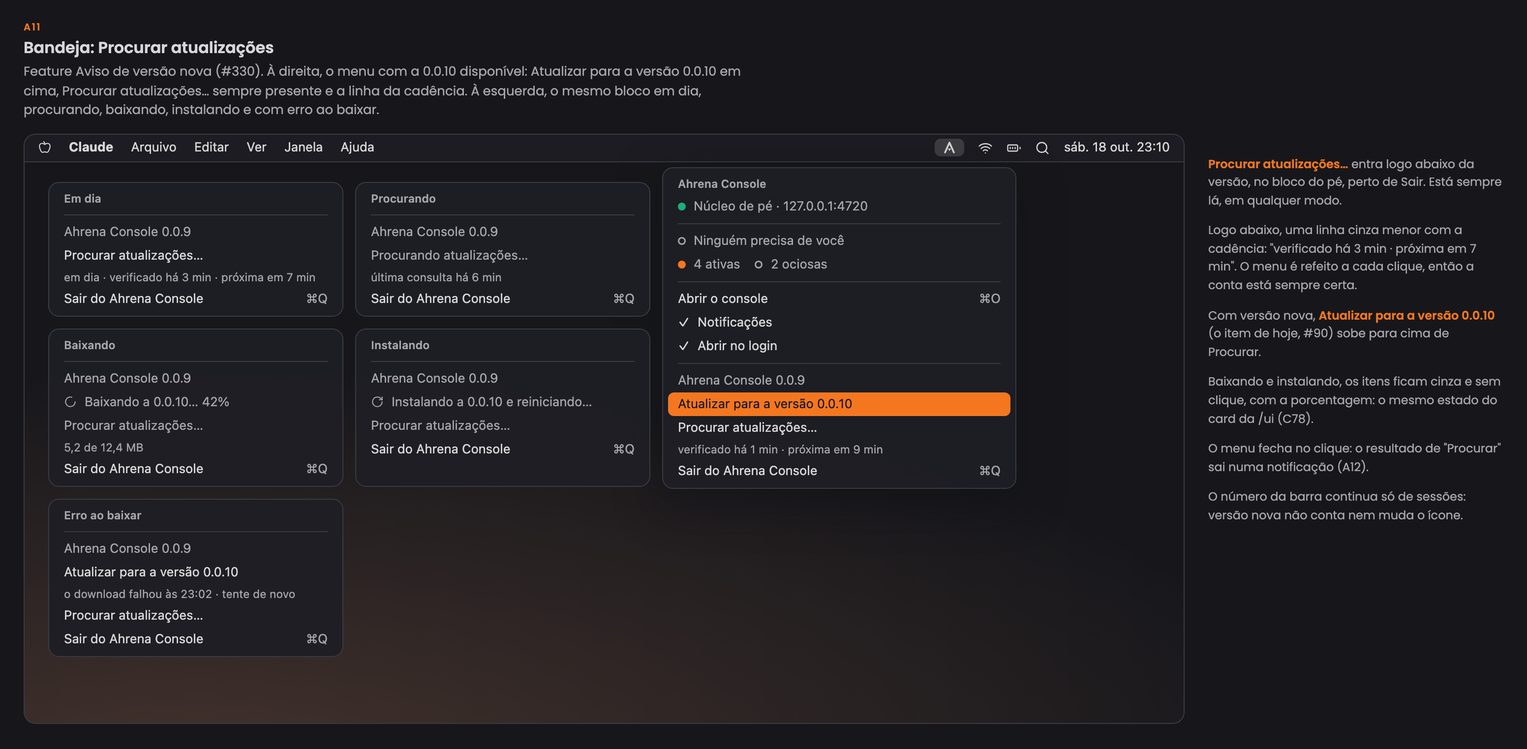
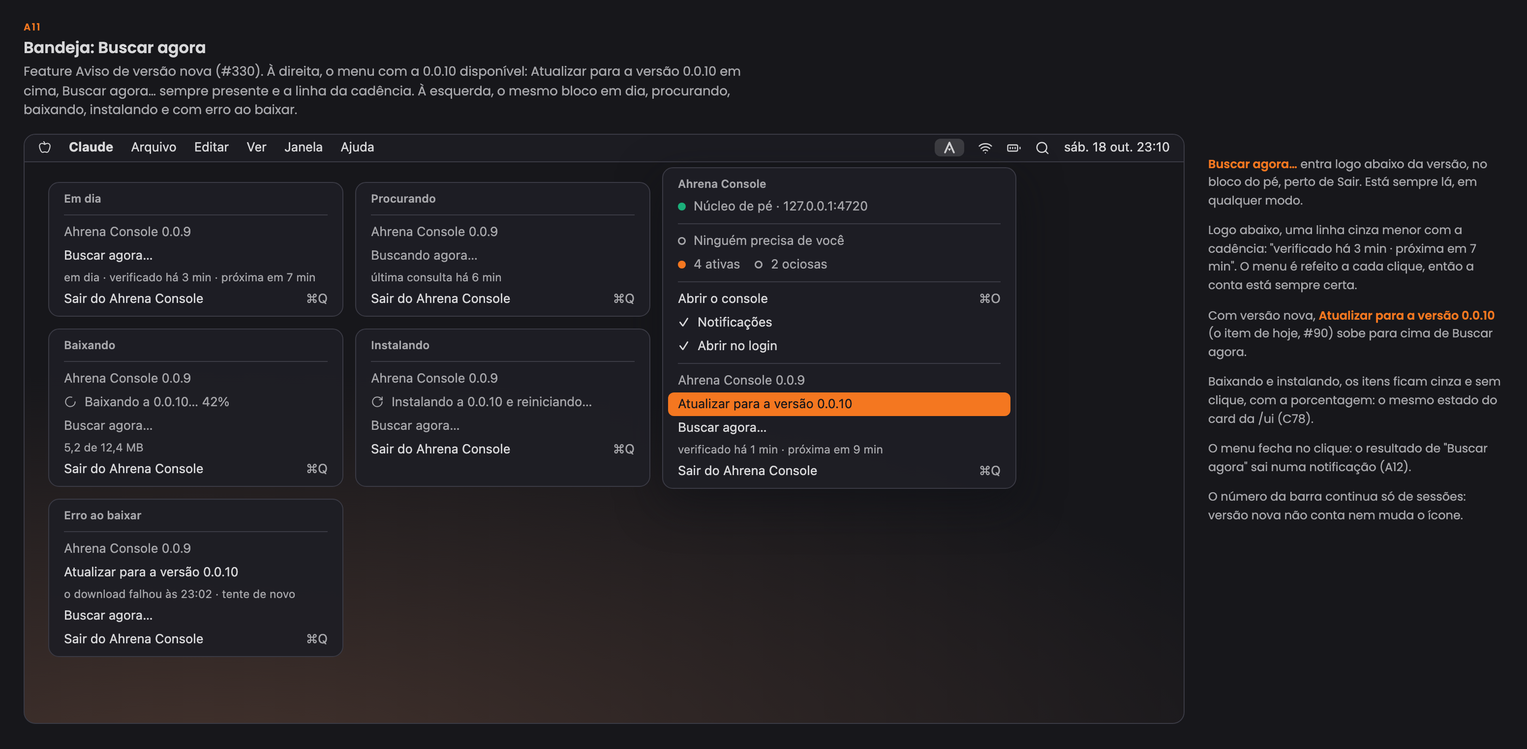
docs(330): read-only notice in the claude.ai artifact, "Buscar agora" wording, card place and color as open decisions

diff --git a/docs/wireframes/index.html b/docs/wireframes/index.html
@@ -3854,6 +3854,7 @@ const UP_BANNER = {
   error: { cls: 'up-err', ic: 'x-circle', t: 'Não deu para baixar a 0.0.10', s: 'A conexão caiu no meio do download (5,2 de 12,4 MB). Você continua na 0.0.9.', act: upBtn('Depois') + upBtn('Tentar de novo', 'refresh-cw', 'cheio') },
   done: { cls: 'up-ok', ic: 'check-circle-2', t: 'Atualizado para a 0.0.10', s: `O que mudou: ${UP_NOTES.join(' · ')}`, act: upBtn('Fechar', 'x', '') },
   browser: { ic: 'download', t: 'Atualização disponível: versão 0.0.10', s: 'Para atualizar, use o app Ahrena Console: na bandeja, Atualizar para a versão 0.0.10.', act: upBtn('Depois') },
+  artifact: { ic: 'download', t: 'Atualização disponível: versão 0.0.10', s: 'Só para ler aqui. Para atualizar ou adiar: No app do Ahrena Console, na bandeja.', act: upBtn('Depois', '', 'contorno tm-rc-off') },
 }
 const upBanner = k => {
   const b = UP_BANNER[k]
@@ -3863,9 +3864,9 @@ const upBanner = k => {
 // The version panel, opened from the sidebar foot's version pill (C79).
 const UP_DEV = '<span class="badge b-idle"><span class="p"></span>modo dev</span>'
 const UP_NOTE_LIST = `<ul class="up-notes">${UP_NOTES.map(n => `<li>${n}</li>`).join('')}</ul>`
-const UP_SEARCH = upBtn('Procurar atualizações', 'refresh-cw')
+const UP_SEARCH = upBtn('Buscar agora', 'refresh-cw')
 const UP_PANEL = {
-  checking: { ic: 'loader-2', c: 'var(--muted)', t: 'Procurando atualizações…', s: 'consultando o latest.json do canal app-updates', act: upBtn('Procurar atualizações', 'refresh-cw', 'contorno tm-rc-off'), cad: 'última consulta há 6 min' },
+  checking: { ic: 'loader-2', c: 'var(--muted)', t: 'Buscando agora…', s: 'consultando o latest.json do canal app-updates', act: upBtn('Buscar agora', 'refresh-cw', 'contorno tm-rc-off'), cad: 'última consulta há 6 min' },
   upToDate: { ic: 'check-circle-2', c: 'var(--status-completed-text)', t: 'Você está na versão mais nova', s: '0.0.9 · conferido agora', act: UP_SEARCH, cad: 'verificado agora · próxima em 10 min' },
   stable: { ver: 'v1.2.0', mode: '<span class="badge b-completed"><span class="p"></span>estável</span>', ic: 'check-circle-2', c: 'var(--status-completed-text)', t: 'Você está na versão mais nova', s: '1.2.0 · conferido há 2 h', act: UP_SEARCH, cad: 'verificado há 2 h · próxima em 4 h', rule: 'versão 1.0 em diante, sem a marca dev: a cada 6 h' },
   available: { ic: 'download', c: 'var(--accent-text)', t: 'Versão 0.0.10 disponível', s: 'publicada há 12 min · 12,4 MB', extra: UP_NOTE_LIST, act: upBtn('Atualizar', 'download', 'cheio') + upBtn('Depois'), cad: 'verificado há 3 min · próxima em 7 min' },
@@ -3873,7 +3874,8 @@ const UP_PANEL = {
   offline: { ic: 'wifi-off', c: 'var(--status-error-text)', t: 'Sem rede', s: 'Não deu para consultar o canal agora. Você continua na 0.0.9.', act: upBtn('Tentar de novo', 'refresh-cw'), cad: 'última consulta boa há 3 h · próxima em 10 min' },
   channelDown: { ic: 'cloud-off', c: 'var(--status-error-text)', t: 'O canal de atualizações não respondeu', s: 'O latest.json do app-updates voltou com erro 503. Nada mudou aqui.', act: upBtn('Tentar de novo', 'refresh-cw'), cad: 'conferido há 1 min · próxima em 10 min' },
   browser: { ic: 'download', c: 'var(--accent-text)', t: 'Versão 0.0.10 disponível', s: 'Atualizar é só no app: na bandeja, Atualizar para a versão 0.0.10. Daqui dá para procurar e adiar.', extra: UP_NOTE_LIST, act: UP_SEARCH + upBtn('Depois'), cad: 'verificado pelo app há 3 min · próxima em 7 min' },
-  noApp: { mode: '', ic: 'app-window', c: 'var(--muted)', t: 'O app não está aberto nesta máquina', s: 'Quem procura versões novas é o app Ahrena Console. Sem ele, a /ui não sabe se há versão nova e não mostra o aviso.', act: upBtn('Procurar atualizações', 'refresh-cw', 'contorno tm-rc-off'), cad: 'o núcleo veio da extensão do Claude Desktop', rule: 'abra o app para voltar a receber o aviso' },
+  artifact: { ic: 'download', c: 'var(--accent-text)', t: 'Versão 0.0.10 disponível', s: 'Só para ler: o artefato fala com o console pela extensão (MCP), que não escreve. Nada daqui atualiza, adia ou consulta.', extra: UP_NOTE_LIST, act: upBtn('Buscar agora', 'refresh-cw', 'contorno tm-rc-off') + upBtn('Depois', '', 'contorno tm-rc-off'), cad: 'verificado pelo app há 3 min · próxima em 7 min', rule: 'No app do Ahrena Console' },
+  noApp: { mode: '', ic: 'app-window', c: 'var(--muted)', t: 'O app não está aberto nesta máquina', s: 'Quem procura versões novas é o app Ahrena Console. Sem ele, a /ui não sabe se há versão nova e não mostra o aviso.', act: upBtn('Buscar agora', 'refresh-cw', 'contorno tm-rc-off'), cad: 'o núcleo veio da extensão do Claude Desktop', rule: 'abra o app para voltar a receber o aviso' },
 }
 const upPanel = k => {
   const p = UP_PANEL[k]
@@ -3910,14 +3912,14 @@ const updateBannerStates = () => `<div class="tm-rc">
     'Adiar vale para todas as janelas e para a bandeja: quem guarda é o núcleo. O ponto laranja do pé da barra lateral continua, para você achar a versão quando quiser.'])}
 </div>`
 
-// C79 · "Procurar atualizações" on demand
+// C79 · "Buscar agora" on demand
 const UP_STATES = [['1 · procurando', 'checking'], ['2 · em dia, modo dev', 'upToDate'], ['3 · em dia, estável', 'stable'], ['4 · disponível', 'available'], ['5 · baixando', 'downloading'], ['6 · erro: sem rede', 'offline'], ['7 · erro: canal fora do ar', 'channelDown']]
 const updateCheckScreens = () => `<div class="tm-rc">
   ${rcRow([['1100 px · o painel aberto pelo pé da barra lateral', upFrame(1100, 'dashboard', telaDashboard(5), 'openOk', upPanel('upToDate'))],
     ['1440 px', upFrame(1440, 'dashboard', telaDashboard(5), 'openOk', upPanel('upToDate'))]], [
     '<b>Onde (a aprovar): a versão no pé da barra lateral</b> vira um botão que abre este painel. A versão já mora ali, aparece em todas as telas e está a um clique de qualquer lugar; nenhum item novo entra na barra.',
     'A alternativa da issue, um card "Versão do app" em Controle, pede uma tela nova (Controle não tem página própria) ou um card dentro de Ferramentas ou Conexões, que tratam de outra coisa.',
-    '<b>Procurar atualizações</b> está sempre disponível, em qualquer modo, e consulta na hora. Esc ou um clique fora fecha.',
+    '<b>Buscar agora</b> está sempre disponível, em qualquer modo, e consulta na hora. Esc ou um clique fora fecha.',
     '<b>A cadência aparece no pé do painel:</b> "verificado há 3 min · próxima em 7 min", e a regra do modo.'])}
   <div class="up-states">${UP_STATES.map(([l, k]) => `<div class="width-col"><div class="rotulo">${l}</div>${upPanel(k)}</div>`).join('')}
     ${rcNote([
@@ -3932,12 +3934,13 @@ const updateOutsideScreens = () => `<div class="tm-rc">
   ${rcRow([['1 · /ui num navegador comum, com o app aberto · 1100 px', upBrowser('127.0.0.1:4720/ui/dashboard', upFrame(1100, 'dashboard', upBanner('browser') + telaDashboard(5)))],
     ['2 · o painel da versão no navegador · 1100 px', upBrowser('127.0.0.1:4720/ui/dashboard', upFrame(1100, 'dashboard', telaDashboard(5), 'open', upPanel('browser')))]], [
     '<b>Fora do app (a aprovar):</b> a /ui num navegador comum mostra o mesmo aviso, mas <b>sem Atualizar</b>: o texto diz que é no app, pela bandeja. Atualizar reinicia o app, e você não está olhando para ele.',
-    '<b>Depois</b> e <b>Procurar atualizações</b> funcionam daqui: o núcleo repassa o pedido ao app, que consulta e responde. É o mesmo GET de um arquivo pequeno.',
+    '<b>Depois</b> e <b>Buscar agora</b> funcionam daqui: o núcleo repassa o pedido ao app, que consulta e responde, e guarda o estado do Depois (PUT /api/app-update/state).',
     'Como a /ui sabe onde está: o app marca a própria janela (um script de início do Tauri); sem a marca, é navegador.'])}
-  ${rcRow([['3 · sem o app nesta máquina · 1100 px', upBrowser('127.0.0.1:4720/ui/dashboard', upFrame(1100, 'dashboard', telaDashboard(5), 'openOk', upPanel('noApp')))]], [
+  ${rcRow([['3 · sem o app nesta máquina · 1100 px', upBrowser('127.0.0.1:4720/ui/dashboard', upFrame(1100, 'dashboard', telaDashboard(5), 'openOk', upPanel('noApp')))],
+    ['4 · no artefato do claude.ai, só leitura · 1100 px', upFrame(1100, 'dashboard', upBanner('artifact') + telaDashboard(5))]], [
     '<b>Sem o app</b> (núcleo subido pela extensão do Claude Desktop, ou um app anterior à #330): ninguém consulta o canal, então não há card nem ponto. O painel da versão explica e o botão fica desligado.',
     '<b>No painel do mod</b> (a aprovar): nada. O painel é da sessão e cabe pouco; a notificação e a bandeja já avisam, e o console tem o card.',
-    'No artefato publicado no claude.ai, o mesmo do navegador: ele lê o núcleo pelo <code>host:</code>.'])}
+    '<b>No artefato publicado no claude.ai (a aprovar):</b> só leitura. Ele fala com o console pela extensão, o MCP, que só lê (decisão 0003). O aviso aparece (4), mas Depois e Buscar agora ficam desligados, com o motivo: "No app do Ahrena Console". O painel da versão mostra o mesmo.'])}
 </div>`
 
 // A11 and A12 · the tray and the notification
@@ -3945,12 +3948,12 @@ const upMenuTop = `${trayHead}${mi('<span class="ponto" style="box-shadow:inset 
   ${mi('Abrir o console', '', '⌘O')}${mi('<span class="ck">✓</span>Notificações')}${mi('<span class="ck">✓</span>Abrir no login')}${msep}`
 const upSmall = t => mi(`<span class="mt">${t}</span>`, 'off up-small')
 const UP_TRAY = {
-  upToDate: ['Em dia', mi('Ahrena Console 0.0.9', 'off') + mi('Procurar atualizações…') + upSmall('em dia · verificado há 3 min · próxima em 7 min')],
-  checking: ['Procurando', mi('Ahrena Console 0.0.9', 'off') + mi('Procurando atualizações…', 'off') + upSmall('última consulta há 6 min')],
-  available: ['Disponível', mi('Ahrena Console 0.0.9', 'off') + mi('Atualizar para a versão 0.0.10', 'foco') + mi('Procurar atualizações…') + upSmall('verificado há 1 min · próxima em 9 min')],
-  downloading: ['Baixando', mi('Ahrena Console 0.0.9', 'off') + mi(`${ic('loader-2')}Baixando a 0.0.10… 42%`, 'off') + mi('Procurar atualizações…', 'off') + upSmall('5,2 de 12,4 MB')],
-  installing: ['Instalando', mi('Ahrena Console 0.0.9', 'off') + mi(`${ic('rotate-cw')}Instalando a 0.0.10 e reiniciando…`, 'off') + mi('Procurar atualizações…', 'off')],
-  error: ['Erro ao baixar', mi('Ahrena Console 0.0.9', 'off') + mi('Atualizar para a versão 0.0.10') + upSmall('o download falhou às 23:02 · tente de novo') + mi('Procurar atualizações…')],
+  upToDate: ['Em dia', mi('Ahrena Console 0.0.9', 'off') + mi('Buscar agora…') + upSmall('em dia · verificado há 3 min · próxima em 7 min')],
+  checking: ['Procurando', mi('Ahrena Console 0.0.9', 'off') + mi('Buscando agora…', 'off') + upSmall('última consulta há 6 min')],
+  available: ['Disponível', mi('Ahrena Console 0.0.9', 'off') + mi('Atualizar para a versão 0.0.10', 'foco') + mi('Buscar agora…') + upSmall('verificado há 1 min · próxima em 9 min')],
+  downloading: ['Baixando', mi('Ahrena Console 0.0.9', 'off') + mi(`${ic('loader-2')}Baixando a 0.0.10… 42%`, 'off') + mi('Buscar agora…', 'off') + upSmall('5,2 de 12,4 MB')],
+  installing: ['Instalando', mi('Ahrena Console 0.0.9', 'off') + mi(`${ic('rotate-cw')}Instalando a 0.0.10 e reiniciando…`, 'off') + mi('Buscar agora…', 'off')],
+  error: ['Erro ao baixar', mi('Ahrena Console 0.0.9', 'off') + mi('Atualizar para a versão 0.0.10') + upSmall('o download falhou às 23:02 · tente de novo') + mi('Buscar agora…')],
 }
 const upTrayFoot = k => UP_TRAY[k][1] + mi('Sair do Ahrena Console', '', '⌘Q')
 const APP_UP = {
@@ -3958,11 +3961,11 @@ const APP_UP = {
     <div class="menu" style="right:170px;width:360px">${upMenuTop}${upTrayFoot('available')}</div>
     <div class="up-frag">${['upToDate', 'checking', 'downloading', 'installing', 'error'].map(k => `<div class="menu">${mi(UP_TRAY[k][0], 'cab')}${msep}${upTrayFoot(k)}</div>`).join('')}</div></div>
     ${rcNote([
-      '<b>Procurar atualizações…</b> entra logo abaixo da versão, no bloco do pé, perto de Sair. Está sempre lá, em qualquer modo.',
+      '<b>Buscar agora…</b> entra logo abaixo da versão, no bloco do pé, perto de Sair. Está sempre lá, em qualquer modo.',
       'Logo abaixo, uma linha cinza menor com a cadência: "verificado há 3 min · próxima em 7 min". O menu é refeito a cada clique, então a conta está sempre certa.',
-      'Com versão nova, <b>Atualizar para a versão 0.0.10</b> (o item de hoje, #90) sobe para cima de Procurar.',
+      'Com versão nova, <b>Atualizar para a versão 0.0.10</b> (o item de hoje, #90) sobe para cima de Buscar agora.',
       'Baixando e instalando, os itens ficam cinza e sem clique, com a porcentagem: o mesmo estado do card da /ui (C78).',
-      'O menu fecha no clique: o resultado de "Procurar" sai numa notificação (A12).',
+      'O menu fecha no clique: o resultado de "Buscar agora" sai numa notificação (A12).',
       'O número da barra continua só de sessões: versão nova não conta nem muda o ícone.'])}</div>`,
   notif: () => `<div class="tm-rc-row"><div class="mac">${mbar(0, false)}
     <div class="notif" style="top:44px"><img src="${LOGO}" alt=""><div><div class="app">AHRENA CONSOLE<span>agora · sem som</span></div><div class="tit">Ahrena Console 0.0.10 disponível</div><div>${UP_LINE}</div></div><div class="acoes"><span>Atualizar</span><span>Depois</span></div></div>
@@ -3970,7 +3973,7 @@ const APP_UP = {
     <div class="notif" style="top:298px"><img src="${LOGO}" alt=""><div><div class="app">AHRENA CONSOLE<span>23:02 · sem som</span></div><div class="tit">Não deu para atualizar para a 0.0.10</div><div>A conexão caiu no download. Você continua na 0.0.9.</div></div><div class="acoes"><span>Tentar de novo</span><span>Abrir</span></div></div>
     <div class="anota" style="left:28px;top:56px;width:500px"><b>1. Versão nova:</b> "Ahrena Console 0.0.10 disponível", com a primeira linha das notas. <b>Uma vez por versão</b> e <b>sem som</b>: não é sessão travada (#245).<br><br>
       <b>Atualizar</b> faz o mesmo que o card e o item da bandeja. <b>Depois</b> adia como o Depois do card (C78). <b>Clicar no corpo</b> abre a janela do app na tela em que ela estava, com o card no topo.<br><br>
-      <b>2. Em dia (a aprovar):</b> só depois de "Procurar atualizações…" na bandeja, que fecha o menu ao clicar. A consulta automática nunca notifica "em dia".<br><br>
+      <b>2. Em dia (a aprovar):</b> só depois de "Buscar agora…" na bandeja, que fecha o menu ao clicar. A consulta automática nunca notifica "em dia".<br><br>
       <b>3. Falha (a aprovar):</b> só quando a atualização começou pela bandeja ou pela notificação e a janela está fechada. Com a janela aberta, o card vermelho já diz.<br><br>
       O item <b>Notificações</b> da bandeja desliga estas também; o card na /ui continua.</div></div>
     ${rcNote(['Ações nativas do macOS, como as da A10.', 'Na Central de Notificações, a de versão nova some sozinha quando a versão é instalada.'])}</div>`,
@@ -4054,8 +4057,8 @@ const TELAS = [
   { id: 'app-clouds-connection', cod: 'A9', nome: 'Bandeja: Nuvens e a conexão da Workstation', sub: 'Features Contas de nuvem (#277) e A conexão da máquina remota (#278), decisão 0013. À esquerda, o túnel no ar e o bloco Nuvens com a sessão que expira em 14 min e Entrar. À direita, de manhã: o túnel fora por SSO expirado, com Entrar na AWS e subir o túnel, e o item cinza enquanto roda.', html: () => `<div class="fila"><div class="mac">${APP_CL.up()}</div><div class="mac">${APP_CL.down()}</div></div>`,
     n: N(['Nada.'], ['A bandeja roda o mesmo que a janela, pela mesma rota local (sem Origin, Host em loopback, como a A8).', 'O número da barra continua só de sessões: nuvem e túnel não contam.']) },
   { id: 'app-clouds-notifications', cod: 'A10', nome: 'Notificações da nuvem e da conexão', sub: 'A sessão que vai expirar, a queda por SSO expirado e a queda por porta ocupada: o motivo no título e a ação que resolve. Todas sem som.', html: () => `<div class="fila"><div class="mac">${APP_CL.notifs()}</div></div>`, n: '' },
-  { id: 'app-update-tray', cod: 'A11', nome: 'Bandeja: Procurar atualizações', sub: 'Feature Aviso de versão nova (#330). À direita, o menu com a 0.0.10 disponível: Atualizar para a versão 0.0.10 em cima, Procurar atualizações… sempre presente e a linha da cadência. À esquerda, o mesmo bloco em dia, procurando, baixando, instalando e com erro ao baixar.', html: () => `<div class="fila">${APP_UP.tray()}</div>`,
-    n: N(['Nada: o CCAM não tem updater (decisão 0005).'], ['O item "Atualizar para a versão X" é o de hoje (#90); a #330 acrescenta Procurar, a cadência e os estados.', 'A consulta automática passa de 6 h fixas para a regra do modo: 10 min no modo dev, 6 h na estável (a aprovar).']) },
+  { id: 'app-update-tray', cod: 'A11', nome: 'Bandeja: Buscar agora', sub: 'Feature Aviso de versão nova (#330). À direita, o menu com a 0.0.10 disponível: Atualizar para a versão 0.0.10 em cima, Buscar agora… sempre presente e a linha da cadência. À esquerda, o mesmo bloco em dia, procurando, baixando, instalando e com erro ao baixar.', html: () => `<div class="fila">${APP_UP.tray()}</div>`,
+    n: N(['Nada: o CCAM não tem updater (decisão 0005).'], ['O item "Atualizar para a versão X" é o de hoje (#90); a #330 acrescenta Buscar agora, a cadência e os estados.', 'A consulta automática passa de 6 h fixas para a regra do modo: 10 min no modo dev, 6 h na estável (a aprovar).']) },
   { id: 'app-update-notification', cod: 'A12', nome: 'Notificação de versão nova', sub: 'Ahrena Console 0.0.10 disponível, com Atualizar e Depois, uma vez por versão e sem som. Embaixo, o "em dia" de uma busca pedida pela bandeja e a falha de uma atualização começada fora da janela.', html: () => `<div class="fila">${APP_UP.notif()}</div>`,
     n: N(['Nada.'], ['Sem som, como as da máquina e da nuvem (A10): versão nova não trava sessão.', 'Uma vez por versão: Depois, fechar ou ignorar não a trazem de volta para a mesma versão.']) },
   { cap: 'console', titulo: 'Console (artefato)', desc: 'O console completo, que é também o que a janela do app mostra: todas as telas do CCAM que fazem sentido aqui, na mesma ordem da barra lateral dele. Moldura, cabeçalho, cards, tabelas e gráficos seguem o CCAM tela a tela.' },
@@ -4218,9 +4221,9 @@ const TELAS = [
     n: N(['Nada: o CCAM não tem updater.'], ['Hoje (#90) a versão nova só aparece no menu da bandeja; a #330 a traz para a janela.', 'Cor da marca, não o amarelo de "precisa de você".']) },
   { id: 'console-update-banner-states', cod: 'C78', nome: 'Os estados do aviso', sub: 'Baixando (a barra, sem Atualizar), instalando e reiniciando, erro ao baixar (Tentar de novo), atualizado, sem notas, e depois de Depois: o card some até a próxima versão ou por 24 h (a aprovar). Em 1100, o topo da tela.', html: () => updateBannerStates(),
     n: N(['Nada.'], ['Um estado só para a janela, o navegador e a bandeja: quem guarda é o núcleo, quem baixa é o app.']) },
-  { id: 'console-update-check', cod: 'C79', nome: 'Procurar atualizações na /ui', sub: 'A versão no pé da barra lateral abre o painel da versão (proposta, a aprovar): procurando, em dia ("Você está na versão mais nova · 0.0.9 · conferido agora"), disponível, baixando e os dois erros, com a cadência no pé: a cada 10 min no modo dev, a cada 6 h na estável (a aprovar). Em 1100 e 1440.', html: () => updateCheckScreens(),
+  { id: 'console-update-check', cod: 'C79', nome: 'Buscar agora na /ui', sub: 'A versão no pé da barra lateral abre o painel da versão (proposta, a aprovar): procurando, em dia ("Você está na versão mais nova · 0.0.9 · conferido agora"), disponível, baixando e os dois erros, com a cadência no pé: a cada 10 min no modo dev, a cada 6 h na estável (a aprovar). Em 1100 e 1440.', html: () => updateCheckScreens(),
     n: N(['Nada.'], ['A issue fala num card de versão em Controle; a proposta é o pé da barra lateral, que já mostra a versão e está em todas as telas.', 'Só a busca pedida mostra erro; a automática falha em silêncio, no log.']) },
-  { id: 'console-update-outside-app', cod: 'C80', nome: 'O aviso fora do app', sub: 'A /ui num navegador comum (ou no artefato): o mesmo aviso, mas Atualizar é só no app; Depois e Procurar funcionam pelo núcleo. Sem o app na máquina, não há aviso, e o painel da versão explica por quê. O painel do mod não mostra nada (a aprovar). Em 1100.', html: () => updateOutsideScreens(),
+  { id: 'console-update-outside-app', cod: 'C80', nome: 'O aviso fora do app', sub: 'A /ui num navegador comum: o mesmo aviso, mas Atualizar é só no app; Depois e Buscar agora funcionam pelo núcleo. No artefato do claude.ai o aviso é só de leitura (Depois e Buscar agora desligados). Sem o app na máquina, não há aviso, e o painel da versão explica por quê. O painel do mod não mostra nada (a aprovar). Em 1100.', html: () => updateOutsideScreens(),
     n: N(['Nada.'], ['Atualizar reinicia o app: só faz sentido de dentro dele.']) },
 ]
 
@@ -4248,7 +4251,7 @@ function montar() {
     <li><b>Telemetria e Dev Console no app (decisão 0008, a aprovar):</b> cada máquina se mede com o próprio núcleo; o do Mac lê o da Workstation pela porta que o túnel encaminha; o app só mostra, sem subir túnel nem abrir login (A6, A7, C24 a C27). A reconexão revê esse ponto na decisão 0012. A barra lateral ganha Dev Console e a seção Máquinas, que aparece em todas as telas.</li>
     <li><b>Reconectar a máquina remota (#244, decisão 0012):</b> com <code>reconnect</code> no machines.json, o núcleo do Mac roda o comando que você escreveu, sem shell, um por vez e com tempo limite; a tela espera o login no navegador e relê a remota ao terminar (C50, A8). Aprovado em 20/10, com a saída só no log.</li>
     <li><b>Nuvens e a conexão da máquina (#277, #278, decisão 0013, a aprovar):</b> as contas de nuvem entram em Conexões, como conectores ao lado do GitHub (C57 a C61); o túnel vira a <code>connection</code> da máquina no machines.json, com Subir, Parar, o perfil de nuvem que ele exige e o motivo da queda em palavras simples (C62 a C65, A9, A10, P14). Os perfis de nuvem são de cada máquina: Esta máquina e a Workstation ganham o card Perfis de nuvem, e o login de lá é por código mostrado aqui (C66, C67). Perguntas em aberto: de onde vem o "até quando" da sessão SSO (variante A, só o expiresAt do cache da CLI, ou B, sem abrir o cache), Conexões ou uma seção Nuvens, um clique para entrar e subir, e Parar já na fase 1.</li>
-    <li><b>Aviso de versão nova do app (#330, a aprovar):</b> o app consulta o canal app-updates <b>a cada 10 min no modo dev</b> (versão abaixo da 1.0, ou build com a marca de canal dev) e <b>a cada 6 h numa estável</b>; Procurar atualizações está sempre disponível. Quando acha, uma notificação sem som, uma vez por versão, com Atualizar e Depois (A12), e um card no topo de todas as telas da /ui, acima do cabeçalho (C77, C78). Perguntas em aberto: a regra do modo dev; Depois esconde até a próxima versão ou por 24 h, o que vier antes; Procurar mora na versão do pé da barra lateral, e não num card em Controle (C79); fora do app, o aviso aparece sem Atualizar, e o painel do mod não mostra nada (C80); o "em dia" e a falha também notificam, só quando a ação veio da bandeja (A11, A12); o card verde de "atualizado" depois de reiniciar. Quem consulta e baixa é o app; o núcleo só guarda o estado e repassa os pedidos da /ui.</li>
+    <li><b>Aviso de versão nova do app (#330, a aprovar):</b> o app consulta o canal app-updates <b>a cada 10 min no modo dev</b> (versão abaixo da 1.0, ou build com a marca de canal dev) e <b>a cada 6 h numa estável</b>; Buscar agora está sempre disponível. Quando acha, uma notificação sem som, uma vez por versão, com Atualizar e Depois (A12), e um card no topo de todas as telas da /ui, acima do cabeçalho (C77, C78). Perguntas em aberto: a regra do modo dev; Depois esconde até a próxima versão ou por 24 h, o que vier antes; Buscar agora mora na versão do pé da barra lateral, e não num card em Controle (C79); fora do app, o aviso aparece sem Atualizar, e o painel do mod não mostra nada (C80); no artefato do claude.ai o aviso é só de leitura, sem Depois nem Buscar agora ativos, porque o MCP da extensão só lê (decisão 0003); o lugar do card, no topo da coluna de conteúdo, em todas as telas, e a cor, laranja da marca e não o amarelo de "precisa de você" (a aprovar); o "em dia" e a falha também notificam, só quando a ação veio da bandeja (A11, A12); o card verde de "atualizado" depois de reiniciar. Quem consulta e baixa é o app; o núcleo só guarda o estado e repassa os pedidos da /ui.</li>
     <li><b>Ferramentas (#280, decisão 0014):</b> CLIs, servidores MCP, plataformas e containers desta máquina e da Workstation, na seção Controle. Instalar, atualizar, iniciar e parar rodam só o que está no catálogo do núcleo, sem shell, um por vez, depois de mostrar o comando; o que pede sudo vira comando para copiar. A Workstation é só leitura até ela mesma ligar as ações (C72 a C76). Aprovado em 21/10, como está.</li>
     <li><b>Sessões de todas as máquinas (#243, a aprovar):</b> o filtro de máquina (Todas · Esta máquina · Workstation, Todas por padrão, na URL) entra em Sessões, Mural, Kanban, Histórico, Feed e Dashboard; o rótulo "Workstation" vai só nas linhas e cards remotos; sem conexão, as sessões de lá saem das listas com um aviso neutro; o detalhe remoto não tem "Abrir no Claude Desktop" (C45 a C49).</li>
     <li><b>O painel do mod com todas as máquinas (#262, a aprovar):</b> "Ver" lista as sessões deste Mac e da Workstation juntas, por idade; o card remoto diz "Workstation" no começo da linha de meta, no lugar da relação, e abre o detalhe no console; um Select só junta a Família e o filtro (Família · Todas as máquinas · Esta máquina · Workstation), na linha de baixo no estreito; sem conexão, as sessões de lá saem e uma linha neutra diz desde quando, com "resolver no console ›"; "N precisam de você" soma as máquinas e a dica divide por máquina e por conta (P15, P16).</li>

diff --git a/docs/wireframes/README.md b/docs/wireframes/README.md
@@ -3,8 +3,8 @@
 Wireframes de todas as telas da 0.0.1, para aprovação antes de construir:
 
 - **Painel lateral** (mod do Claude Code, decisão [0004](../decisoes/0004-painel-da-sessao.md)): P0 a P16, em 38 e 121 colunas, com as decisões da sessão (P9 e P10) e o grafo da sessão com os subagentes (P11 a P13, issue #146), a sessão numa máquina sem conexão (P14, issue #278), e o "Ver" com as sessões de todas as máquinas e o filtro de máquina (P15), com uma máquina sem conexão (P16, issue #262).
-- **App de bandeja** (Tauri, decisão [0005](../decisoes/0005-app-desktop.md)): A1 a A5, e A6 e A7 com o bloco Máquinas (decisão [0008](../decisoes/0008-machine-telemetry-and-dev-console.md)), e A8 com o Reconectar da máquina remota (issue #244, decisão 0012), e A9 e A10 com as nuvens e a conexão da Workstation (issues #277 e #278, decisão 0013), e A11 e A12 com o aviso de versão nova do app: Procurar atualizações e os estados na bandeja, e a notificação (issue #330).
-- **Console** (artefato, que também é a janela do app): C1 a C23 e C51 a C53, com Feed, Analytics, Workflows (grafo de agentes e o laço dev/review), Agent Config, Rodar agente, Decisões (C20 e C21), Repositórios (C22 e C23), as máquinas (C24 Esta máquina, C25 Workstation, C26 sem conexão) o Dev Console (C27) e as ADRs dos repositórios (C28 a C31, issue #174) e as instruções dos agentes de cada repositório (C32 e C33, issue #183), o fluxo para instalar o Ahrena Framework num repositório por PR (C34 a C37, issue #184) as decisões de produto, PDR (C38), com o [estudo](../repo-instructions-install-adrs-study.md), a conexão com o GitHub sem o `gh` (C39 a C44, issue #241, decisão [0011](../decisoes/0011-github-device-flow-keychain.md)): a seção Conexões em Controle, o código do device flow, o estado conectado, o "Conectar ao GitHub" nas telas e a escolha do Project no Kanban do projeto, e Reconectar a Workstation pelo comando do machines.json (C50, issue #244), e a aba Entregas do Analytics, com o ritmo de entrega de cada repositório e projeto ao lado do esforço do Claude (C54 a C56, issue #266), e o botão que leva à própria sessão, no Claude Desktop ou num terminal que a retoma, no Detalhe, no Mural, em Sessões e no Dashboard (C70 e C71), as contas de nuvem em Conexões, com o catálogo de conectores, os perfis da AWS e o estado da sessão SSO (C57 a C61, issue #277), os perfis de nuvem de cada máquina, com o login da Workstation por código (C66 e C67, issue #277), e a conexão da Workstation como conexão de primeira classe, com onde ela roda, o túnel, a sessão de nuvem e o motivo da queda (C62 a C65, issue #278), as duas pela decisão [0013](../decisoes/0013-cloud-connectors-and-machine-connection.md), e Ferramentas, as CLIs, os servidores MCP, as plataformas e os containers desta máquina e da Workstation, com instalar e atualizar pelo catálogo do núcleo (C72 a C76, issue #280, decisão [0014](../decisoes/0014-dev-tools-command-catalog.md)), e o aviso de versão nova do app: o card no topo de todas as telas (C77), os estados dele (C78), Procurar atualizações no painel da versão, aberto pelo pé da barra lateral, com a cadência (C79), e o aviso fora do app (C80, issue #330), e as sessões de todas as máquinas com o filtro de máquina (C45 Sessões, C46 Mural e Kanban, C47 Dashboard, Feed e Histórico, C48 Workstation sem conexão nas listas, C49 detalhe de uma sessão remota, issue #243). A caixa para mandar mensagem a uma sessão viva pelo Detalhe (C51), os estados da entrega (C52) e quando ela não dá (C53) são da issue #61. As telas novas aparecem em 1100 px, a largura da janela do app, e em 1440 px. A separação entre "Precisa de você" (a sessão trava) e "Ociosa" (a vez é sua), da issue #245, muda o Dashboard, Mural, Sessões, Detalhe (Conversa e Linha do tempo), Feed, os dois Kanbans, Dev Console, Workstation, a bandeja (A1 a A8), as notificações e a legenda do painel (P0); essas telas do console aparecem em 1100 px.
+- **App de bandeja** (Tauri, decisão [0005](../decisoes/0005-app-desktop.md)): A1 a A5, e A6 e A7 com o bloco Máquinas (decisão [0008](../decisoes/0008-machine-telemetry-and-dev-console.md)), e A8 com o Reconectar da máquina remota (issue #244, decisão 0012), e A9 e A10 com as nuvens e a conexão da Workstation (issues #277 e #278, decisão 0013), e A11 e A12 com o aviso de versão nova do app: Buscar agora e os estados na bandeja, e a notificação (issue #330).
+- **Console** (artefato, que também é a janela do app): C1 a C23 e C51 a C53, com Feed, Analytics, Workflows (grafo de agentes e o laço dev/review), Agent Config, Rodar agente, Decisões (C20 e C21), Repositórios (C22 e C23), as máquinas (C24 Esta máquina, C25 Workstation, C26 sem conexão) o Dev Console (C27) e as ADRs dos repositórios (C28 a C31, issue #174) e as instruções dos agentes de cada repositório (C32 e C33, issue #183), o fluxo para instalar o Ahrena Framework num repositório por PR (C34 a C37, issue #184) as decisões de produto, PDR (C38), com o [estudo](../repo-instructions-install-adrs-study.md), a conexão com o GitHub sem o `gh` (C39 a C44, issue #241, decisão [0011](../decisoes/0011-github-device-flow-keychain.md)): a seção Conexões em Controle, o código do device flow, o estado conectado, o "Conectar ao GitHub" nas telas e a escolha do Project no Kanban do projeto, e Reconectar a Workstation pelo comando do machines.json (C50, issue #244), e a aba Entregas do Analytics, com o ritmo de entrega de cada repositório e projeto ao lado do esforço do Claude (C54 a C56, issue #266), e o botão que leva à própria sessão, no Claude Desktop ou num terminal que a retoma, no Detalhe, no Mural, em Sessões e no Dashboard (C70 e C71), as contas de nuvem em Conexões, com o catálogo de conectores, os perfis da AWS e o estado da sessão SSO (C57 a C61, issue #277), os perfis de nuvem de cada máquina, com o login da Workstation por código (C66 e C67, issue #277), e a conexão da Workstation como conexão de primeira classe, com onde ela roda, o túnel, a sessão de nuvem e o motivo da queda (C62 a C65, issue #278), as duas pela decisão [0013](../decisoes/0013-cloud-connectors-and-machine-connection.md), e Ferramentas, as CLIs, os servidores MCP, as plataformas e os containers desta máquina e da Workstation, com instalar e atualizar pelo catálogo do núcleo (C72 a C76, issue #280, decisão [0014](../decisoes/0014-dev-tools-command-catalog.md)), e o aviso de versão nova do app: o card no topo de todas as telas (C77), os estados dele (C78), Buscar agora no painel da versão, aberto pelo pé da barra lateral, com a cadência (C79), e o aviso fora do app (C80, issue #330), e as sessões de todas as máquinas com o filtro de máquina (C45 Sessões, C46 Mural e Kanban, C47 Dashboard, Feed e Histórico, C48 Workstation sem conexão nas listas, C49 detalhe de uma sessão remota, issue #243). A caixa para mandar mensagem a uma sessão viva pelo Detalhe (C51), os estados da entrega (C52) e quando ela não dá (C53) são da issue #61. As telas novas aparecem em 1100 px, a largura da janela do app, e em 1440 px. A separação entre "Precisa de você" (a sessão trava) e "Ociosa" (a vez é sua), da issue #245, muda o Dashboard, Mural, Sessões, Detalhe (Conversa e Linha do tempo), Feed, os dois Kanbans, Dev Console, Workstation, a bandeja (A1 a A8), as notificações e a legenda do painel (P0); essas telas do console aparecem em 1100 px.
 
 A referência é o Claude Code Agent Monitor. Cada tela diz o que veio dele e onde diverge.
 
